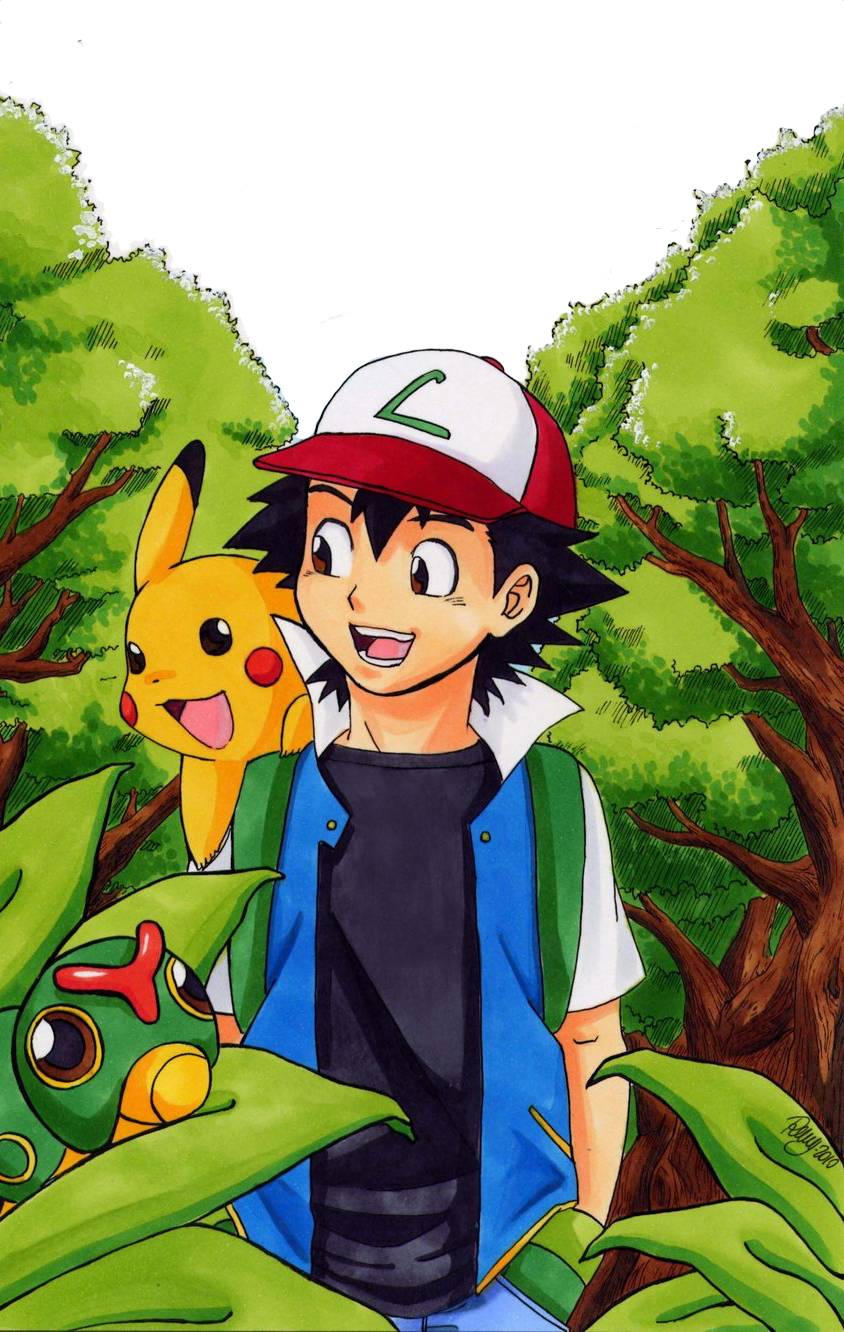
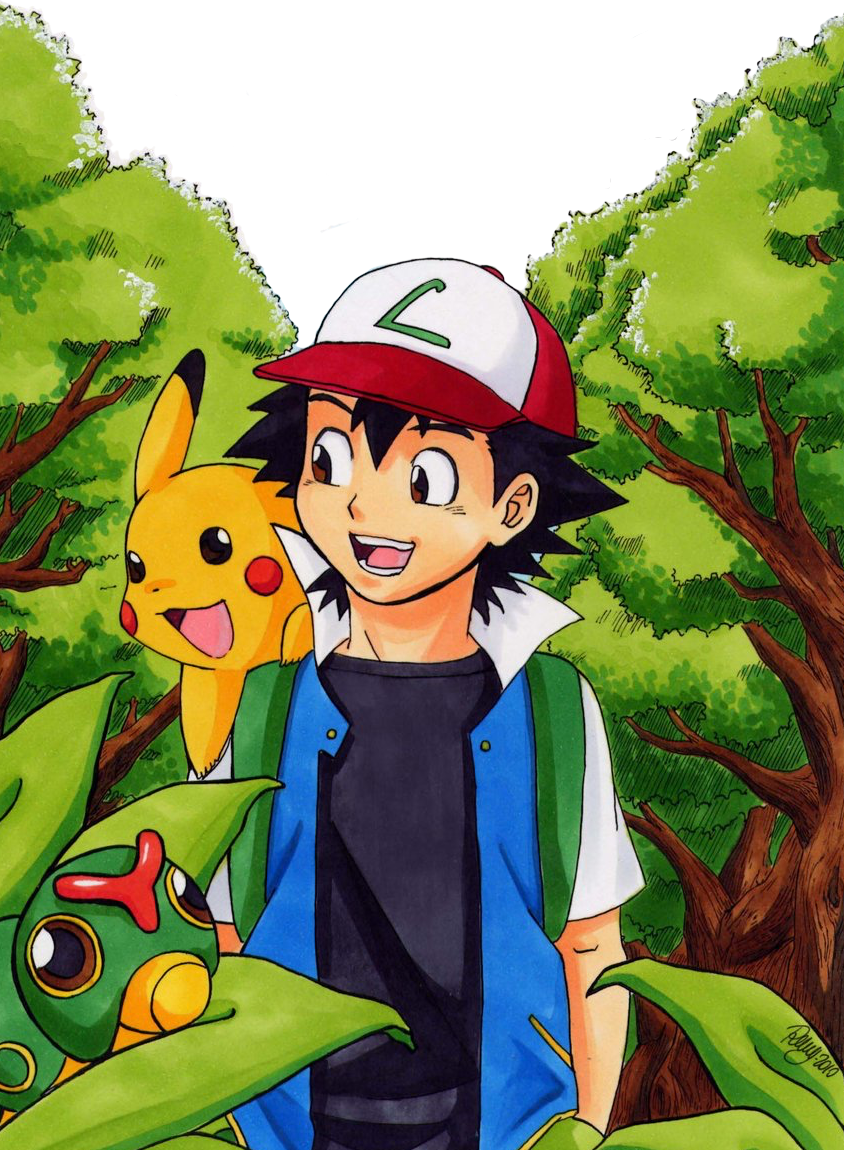
adjusted ash's height and stat colors

diff --git a/index.html b/index.html
@@ -28,9 +28,9 @@
         </ul></p>
       </div>
         <div class="details" ng-controller="DetailsCtrl">
-            <h2 class="stats">Name: {{ name }}</h2><br>
-            <h2 class="stats">Attack Power: {{ attack }}</h2><br>
-            <h2 class="stats">Defense Power: {{ defense }}</h2>
+            <h2 class="stats">Name: <span class="varStats">{{ name }}</span></h2><br>
+            <h2 class="stats">Attack Power: <span class="varStats">{{ attack }}</span></h2><br>
+            <h2 class="stats">Defense Power: <span class="varStats">{{ defense }}</span></h2>
             <div class="popup">
               <div id="popupText"></div>  
               <svg height="50" width="100">
@@ -38,7 +38,7 @@
                 Sorry, your browser does not support inline SVG.
               </svg>
             </div>
-            <img id="ash" src="img/ashImage.png"/>
+            <img id="ash" src="img/ashSmall.png"/>
         </div>
         <div id="rightSidebar">
           <div> 

diff --git a/css/styles.css b/css/styles.css
@@ -196,7 +196,7 @@ p {
 }
 
 #rightSidebar {
-  width: 32%;
+  width: 30%;
   float: right;
 }
 
@@ -211,10 +211,15 @@ p {
 }
 
 .stats {
-  text-align: left;
+  background-color: black;
+  border: 4px solid silver;
+  border-radius: 20%;
+  color: white;
   margin: auto;
-  margin-top: 0px;
+  text-align: left;
   width: 46%;
+
+
 }
 
 #text {
@@ -223,4 +228,8 @@ p {
 
 ul li {
   list-style-type: none;
+}
+
+.varStats {
+  color: gold;
 }
